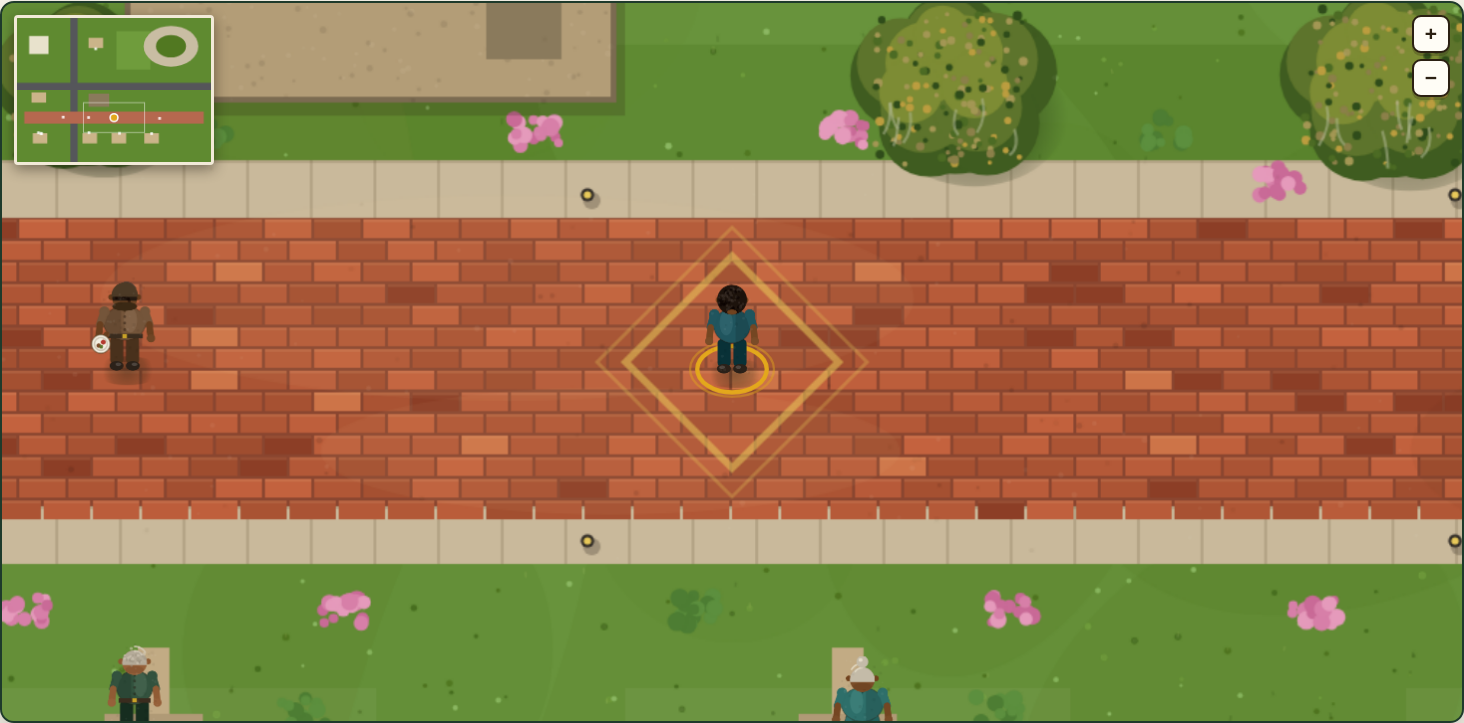
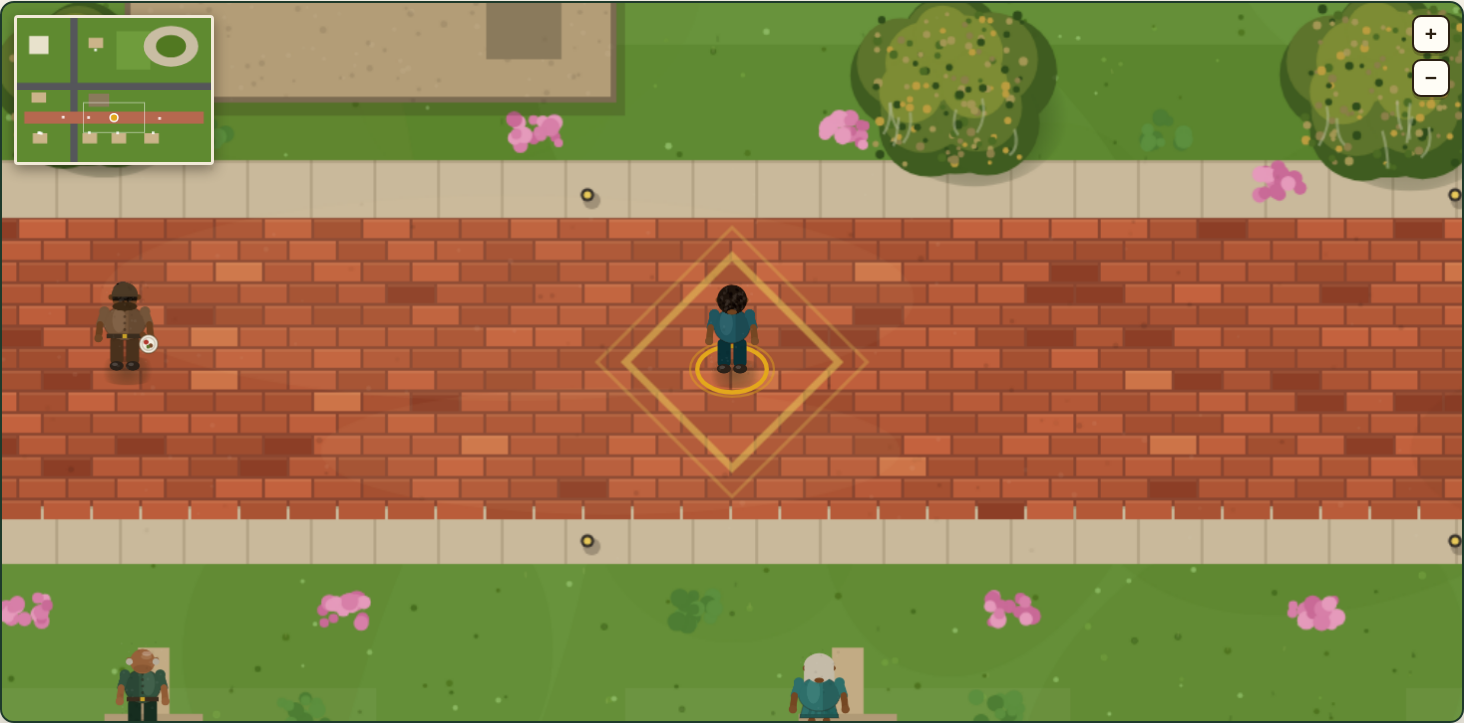
TW-1238: proof — matched framings at the new zooms, zoom sequence, NOTES
Same placements as Slice 1: wide plaza and Saturday pair at the
new default 1.45, greeting closeups at the 2.2 maximum, plus
full-world at 0.45 and a zoom-control sequence (both stops
exact, camera held on the player). Zero page errors; agent-eyes
strict clean at 1440 and 390. NOTES.md states the sampled
palette, every roster person's hair and skin with sources
(no photos on file for anyone), and the plain shortfalls.

Changed region(s): [[0.5225, 0.8824, 0.6148, 1.0], [0.0615, 0.8824, 0.123, 1.0], [0.0615, 0.426, 0.123, 0.4869]]

diff --git a/qa/tw1238/NOTES.md b/qa/tw1238/NOTES.md
@@ -1,0 +1,172 @@
+# TW-1238 — Our LGCY world art pass: proof notes
+
+Prepared by Twistor Holdings LLC
+
+Branch `sofia/tw-1238-art-pass` off main 509aaf5. The founder's
+two reference photos are the acceptance test; every framing
+below is shot at the same placements as Slice 1 (qa/tw1232) so
+the two passes compare directly. Harness: `qa/tw1238/capture.py`
+(results in `results.json`); runtime gate: `agent-eyes.txt`.
+
+## What changed
+
+1. **Sprite people, not shapes.** Figures are pre-rendered
+   sprites painted per person from their appearance record:
+   head with hair in its style, texture, and color; torso in
+   shaded era clothing (dark shade side, lit panel, collar,
+   buttons, belt, dress folds and hem); two-segment arms with
+   skin hands; legs and shoes that step through a 4-frame walk;
+   a 2-frame wave and a 2-frame cheer; soft radial ground
+   shadow; paper grain. Head is about a third of the figure, per
+   the close reference. Figures stand upright as the references
+   draw people: front or back facing by travel direction,
+   flipped for leftward travel, greetings and cheers always
+   front. (First smoke round rotated sprites with heading; from
+   any non-south heading a person read as lying on the ground.
+   That class is gone.)
+2. **Zoom.** Default 1.45 (figures read as people on arrival).
+   Maximum 2.2 is the hard stop, set to reference-2's framing;
+   minimum 0.45 shows the whole world. Wheel, pinch, and the
+   + / − buttons all drive one eased target zoom; the camera
+   angle never changes at any level, scale only, and the camera
+   stays on the player (proof gaps [0, 0] and [0, −2] px at the
+   two stops). Minimap unaffected. Canvas now renders at device
+   pixel ratio (cap 2), closing Slice 1's known shortfall #6.
+3. **One scale law.** The same 62-unit sprite walks the street,
+   presses at the gates (24 full figures in home purple and
+   gold, replacing 240 dots), works the tailgate, and plays on
+   the field (two elevens in formation, replacing nobody; Slice
+   1's field was empty). The stands are a generated crowd
+   texture (tile of heads and shoulders, ~55% purple family,
+   ~25% gold family, rest warm neutrals and skin tones) with
+   tier shading, replacing 2,600 scattered dots. Yard numbers
+   painted on the grass, readable from both sidelines.
+4. **Surfaces.** Palette below; brick with per-brick variation,
+   burnt and sunlit bricks, lit top edges, tonal drift; grass
+   with blade strokes; three-depth tree canopies with dappled
+   light flecking the ground shadow; cream/tan roofs with
+   courses and ridges; tan church and store roofs.
+
+## Palette (sampled from the two reference photos, median-cut)
+
+- Brick: base rgb(178, 88, 55); sampled family #b5684f, #bb6d5a,
+  #ba6b50; sunlit #dba074; shade #98553f; mortar #8a4630.
+- Field green: #517821 (samples #517821, #557626, #415e20);
+  lawns #5f8a30 with patches toward #86b45c.
+- Canopy: deep #3f5c20, mid #5d742c, sunlit #7d8c34, flecks
+  #a39754 and #bb9d3f (samples ran olive: #52521e to #bb9d3f).
+- Roofs: cream/tan #d9c8a6, #c9ae84, #e2d2b0, #d3bd94, #dccaa9,
+  #c2a678 (samples #b49a89, #9f866e, #cfae8a, #ddbba1).
+- Crowd mass: purples #5b3a8e family and golds #e3a81c family
+  dominant, per the close reference's stands.
+- Daylight is warm throughout (sunlit edges, warm tonal drift);
+  no scheme was invented off-palette.
+
+## The people: appearance, hair, skin (detail correctness)
+
+Photos on file: **none, for any of the 10 roster people or the
+player.** The lineage pack carries no photo fields and the
+project assets hold no portraits (Oddie Criner Gooden's Living
+Summary states it plainly: no photo, because no record or
+upload has supplied one). So every sprite is record-driven,
+and the mechanism is ready: a record's `photo` field names an
+upload, its derived attributes replace the assignments below,
+and the same painter consumes them. Sprites stay abstract
+either way (likeness law).
+
+Skin tones (founder rule: unsure cases default to the mixed
+and dark brown range, varied person to person, never one flat
+tone): assigned one by one across **#54331d (deep dark brown)
+to #a9744a (warm medium brown)**; the crowd/spectator pool
+draws from the same range.
+
+| Person | Hair style | Texture | Length | Color | Skin | Source |
+|---|---|---|---|---|---|---|
+| Elouise Morris | bun (under church hat) | straight | short | gray #cfc8ba | #8a5a34 | era: documented, passed at 96 |
+| Oddie Criner Gooden | flowing | straight | long | gray #c4bba8 | #7a4c28 | era: documented, passed at 71 |
+| Curtis Franklin Hammond | short (under fedora) | coily | short | gray #b9b0a0 | #5d3a20 | era: documented, passed at 79 |
+| Melvin Andrew Gooden | afro | coily | medium | gray #b9b0a0 | #9c6a3e | era + variation: b. 1932 documented, death unrecorded |
+| Emma Jean Jackson | flowing | curly | long | dark #2a1a10 | #835231 | variation: years probable |
+| Willie Bethsaida Anderson | braids | braided | long | gray #c9c2b4 | #54331d | variation: years probable |
+| Dora Weathers | short | curly | short | salt-and-pepper #6b6156 | #a9744a | variation: years probable |
+| Troy Wright | short (under cap) | straight | short | black #17110b | #6e4525 | variation: years probable |
+| Andrew Jackson Gooden | bald, gray fringe | straight | none | gray #b5ab99 | #96613a | variation: years probable |
+| James J Hammond | short | straight | short | near-white #d6cfc0 | #684628 | variation: elder, cane in the record |
+| Justynn (player) | short | coily | short | black #1d130c | #7a4c28 | the visitor's own figure |
+
+Builds vary (slim / average / sturdy) and gray follows the
+documented age at passing where documented. Glasses: no
+roster record documents them, so nobody wears them; the
+attribute exists in the mechanism and renders when a record
+or photo carries it. No two roster people share the same
+combination of style, texture, and color.
+
+## Framing by framing (Slice 1 counterpart in qa/tw1232)
+
+- **wide-plaza.png** (Slice 1: zoom 1; now default 1.45): the
+  player stands on the gold diamond as a person, hair, shaded
+  clothes, belt; Troy waits with his plate at the west end;
+  Andrew's bald head and Oddie's long gray hair read from
+  behind at the south porches. Brick carries per-brick
+  variation and warm drift; trees are three-depth canopies.
+- **closeup-greeting-aunt.png** (Slice 1 at zoom 1.9; now at
+  the 2.2 maximum): Elouise in her purple dress and church hat,
+  arm raised in the wave, "Hi Justynn! How's it going?" Same
+  line, same speaker, at the reference-2 scale.
+- **closeup-greeting-cousin.png**: Troy with his plate,
+  "Good to see you!", greet_count 2 for the page, duplicate
+  guard intact.
+- **saturday-tailgate.png** (same placements): Oddie's long
+  gray hair and wave ("Good morning, Justynn!", time-aware),
+  Curtis at the smoking grill in his fedora, Dora's short
+  curls, Emma Jean's long dark hair; tents, trucks, and the
+  crowd mass at the wall, all figures one scale.
+- **saturday-stadium.png** (same placements): Elouise in the
+  stands in San Francisco State purple with the gold sash,
+  cheering; gate crowd is 24 full figures, not dots; the field
+  holds two elevens at street scale with yard numbers; the
+  player at the gate is the same size as everyone.
+- **full-world.png** (new): the whole 3200×2400 world at the
+  0.45 wide stop.
+- **zoom-seq-a/b/c.png** (new): default → button clicks stop
+  at exactly 2.2 (at_max true) → wheel stops at 0.45 (at_min
+  true); camera-player gap [0, 0] and [0, −2].
+- **mobile-390.png**: default zoom at phone width; figures
+  read, no horizontal scroll (agent-eyes confirms).
+
+Zero page errors across every page (`results.json`);
+agent-eyes strict is clean at 1440 and 390: no shrink, snap,
+flicker, disappearance, or detour on the canvas, no console or
+server errors, actions ok.
+
+## Bugs found and fixed in this pass
+
+- First-frame drawImage throw on Saturdays: elapsed time runs
+  negative for the first ~0.3 s (rAF clock starts behind the
+  frame timer), making the cyclic wave/cheer frame index −1.
+  Slice 1 carried the same latent flaw; Elouise's Saturday
+  cheer is simply the first surface to fire it at frame one.
+  Fixed at the root: dt is clamped non-negative in the frame
+  loop. Proof: the Saturday pages now run error-free.
+- TW-1237's notes ride the build-out as before (N5 path
+  fallback, N1 door cells, N2 eraOf) and are untouched here.
+
+## What still falls short of the references, plainly
+
+- The references are hand-painted with soft, irregular edges;
+  ours are clean vector-painted sprites. At the reference-2
+  framing the difference is visible: our figures are crisper
+  and flatter, faces carry no features at all (the likeness
+  law forbids copied faces; the references' faces have tiny
+  painted eyes we deliberately do not imitate per person).
+- The crowd texture's grid origin shows at maximum zoom as a
+  faint regularity in the heads; at default zoom and below it
+  reads as a mass, as intended.
+- Tree canopies are layered discs with speckle and dapple;
+  the references' canopies have finer leaf clumping and
+  longer moss. Closer than Slice 1, not equal.
+- Field players stand in formation but do not play; animation
+  on the field is a build-out question, not an art-pass one.
+- Houses keep Slice 1's geometry (porches, shutters); the art
+  pass recolored and re-shaded roofs but did not add the
+  references' roof overhangs and gable detail.
